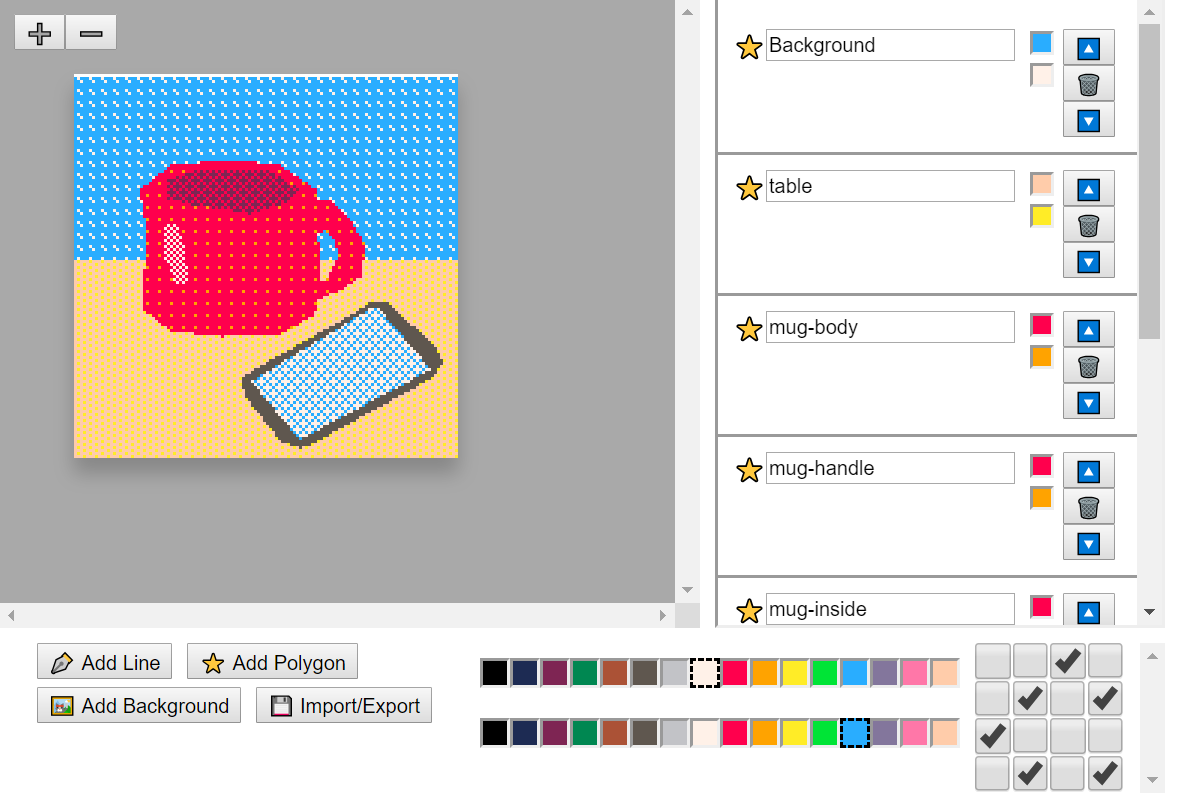
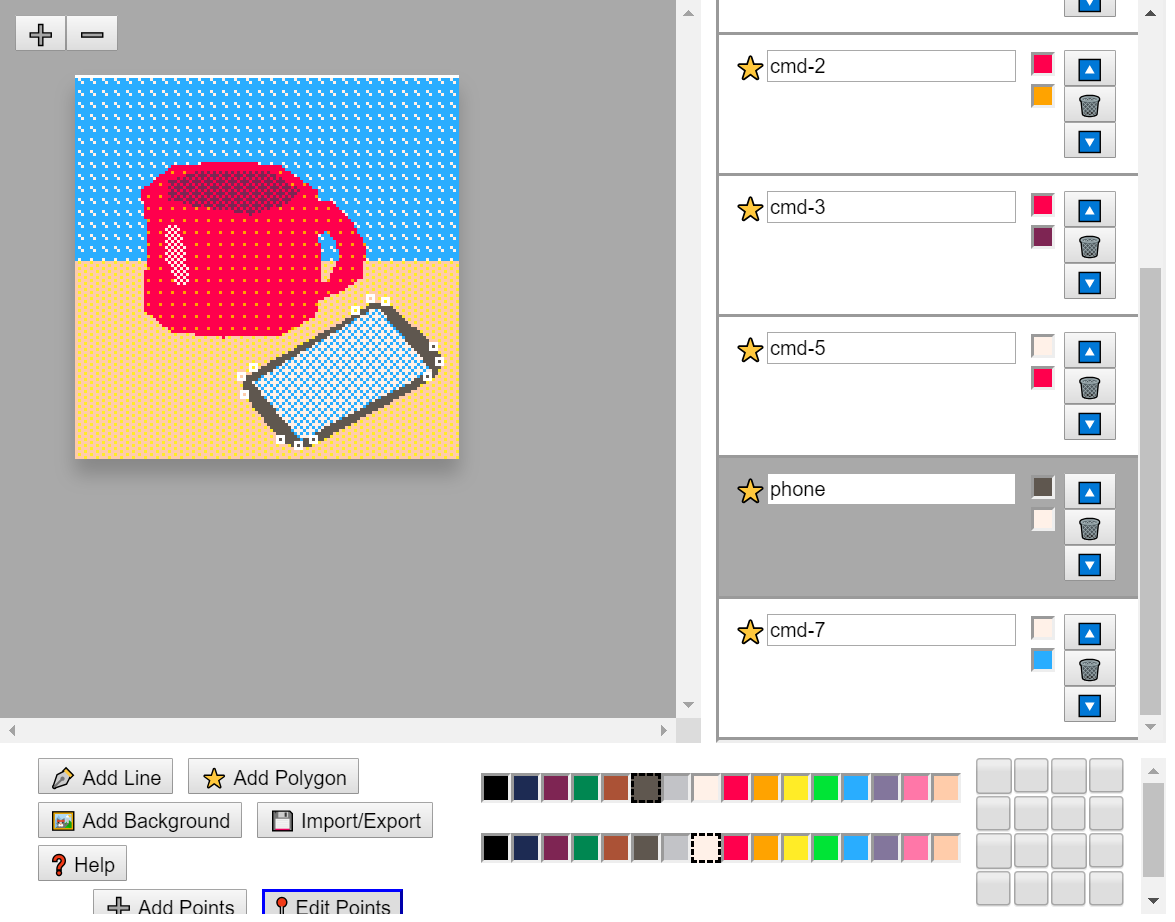
added help button

Changed region(s): [[0.0, 0.0, 1.0, 0.9938], [0.0, 0.0311, 0.3983, 0.5901]]

diff --git a/src/components/ToolsPalette.js b/src/components/ToolsPalette.js
@@ -33,6 +33,7 @@ const ToolButton = styled.button`
   margin: 0px 5px 5px 5px;
   border-width: 2px;
   border-color: ${props => props.active ? 'blue' : 'none'};
+  cursor: pointer;
 `;
 
 const ToolRow = styled.div`
@@ -70,6 +71,11 @@ class ToolsPalette extends Component {
             onClick={() => {openModal()}} >
             <span role="img" aria-label="open export modal">💾 Import/Export</span>
           </ToolButton>
+          <a href="//github.com/hypothete/gmagic" target="_blank" rel="noreferrer noopener">
+            <ToolButton>
+              <span role="img" aria-label="go to help readme">❓ Help</span>
+            </ToolButton>
+          </a>
           </ToolRow>
           <ToolRow>
           {

diff --git a/README.md b/README.md
@@ -50,6 +50,8 @@ While a command is active, two new buttons will appear in this menu: **Add Point
 
 **Import/Export** calls up a modal that lets you import a drawing previously exported as JSON, and also save your drawing as either JSON or proprietary PICO-8 markup. PICO-8 doesn't have polygon and polyline commmands, so I've written some myself. This section will be updated when the code is ready to share.
 
+The **Help Button** brings you to this readme!
+
 The **Color Palettes** let you control the primary and secondary colors for the active command. They work in tandem with the grid of checkboxes, called the **Pattern Toggle**. With a polygon command selected, try clicking a color in each color palette, then checking and unchecking the boxes in the Pattern Toggle. You should see that the pattern made by the checkboxes determines how the colors you selected fill the polygon. There are lots of interesting combinations possible using this method - try experimenting with different patterns!
 
 ## Known bugs
